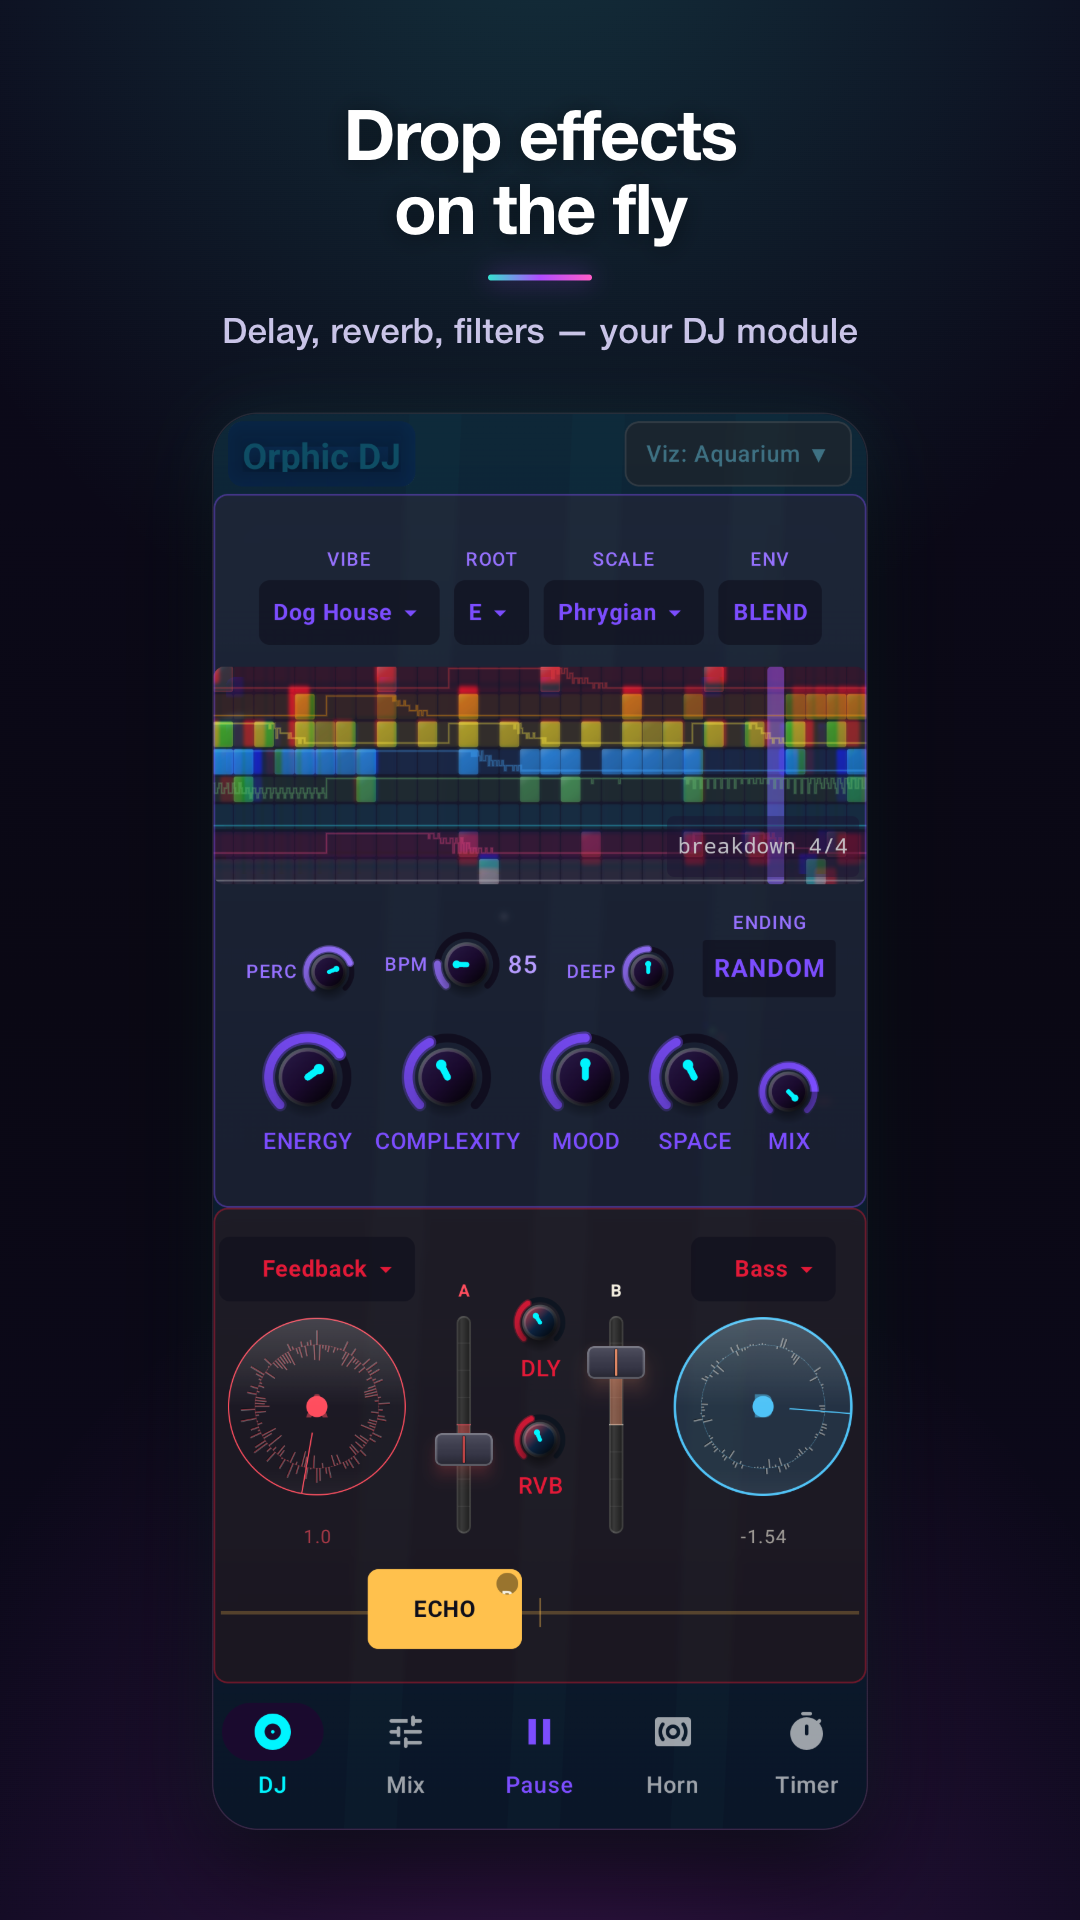
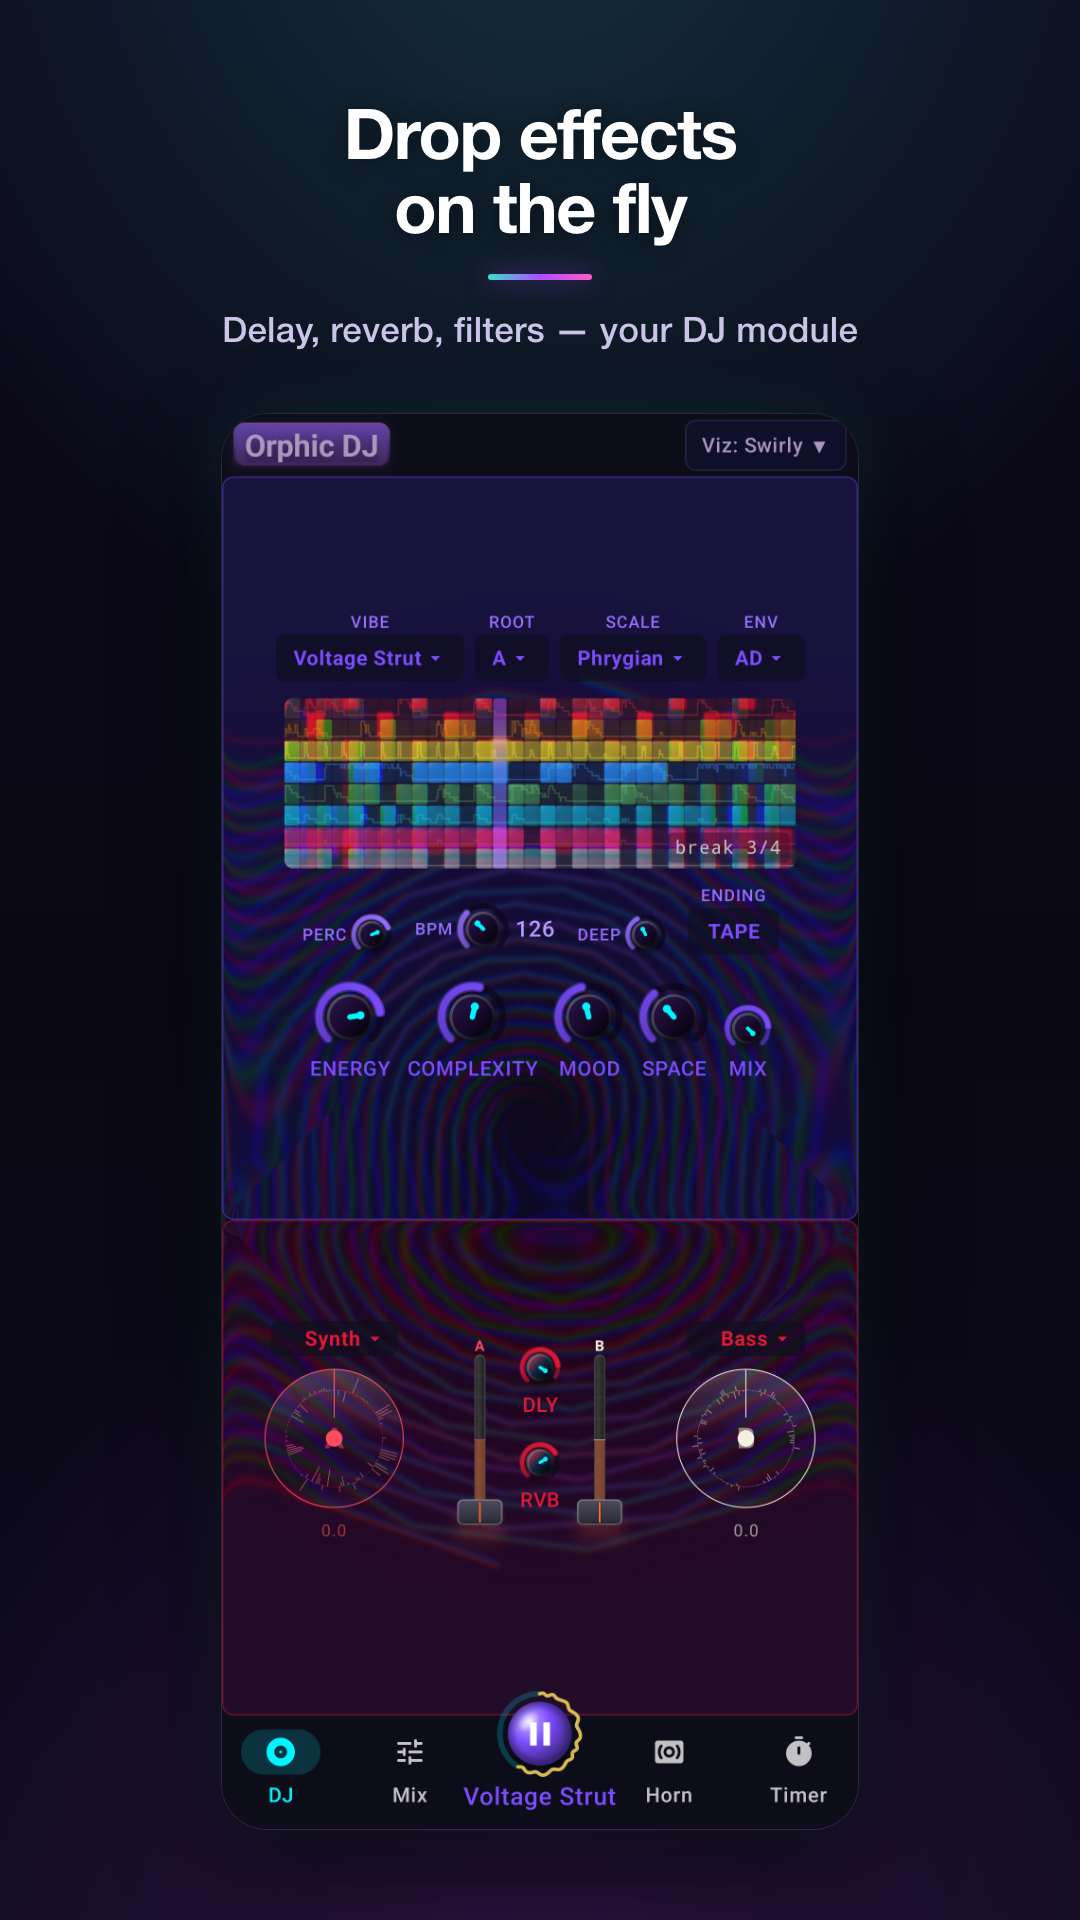
feat(store): new-UI screenshots for every Play and App Store slot
Replaces the phone, Fold (7-inch), tablet, TV, iPhone 6.9" and iPad 13" screenshots with captures of the vibe-navigator UI, and the counts on the numbers card, feature graphic and both descriptions become 11+ vibes and 12+ visualizations. A mistyped caption-frame index now fails instead of reusing frame 0.

diff --git a/apps/djapp/store-listings/capture/framed/frame-large.html b/apps/djapp/store-listings/capture/framed/frame-large.html
@@ -112,34 +112,34 @@
     // Headlines and subheads are the phone frames' verbatim, from frame.html — the listing says
     // the same things about the same screens whatever the device, so a large-screen shot is not
     // pitching the app differently from the phone one beside it.
+    // Index map: 0-3 Fold (Play 7-inch, 2560x1600), 4-7 Android tablet (Play 10-inch, 2560x1600),
+    // 8 phone landscape (Play phone slot, 1920x1080), 9-12 iPad 13" landscape (2752x2064).
+    // Neighbouring shots use different vibes and visualizations so no pair reads as one screen twice.
+    const KNOBS = { headline: "Four knobs.\nYou conduct.", subhead: "Energy · Complexity · Mood · Space" };
+    const VIBES = { headline: "Pick your vibe,\nendless variations", subhead: "From upbeat grooves to deep ambient drones" };
+    const MIX = { headline: "Ride the mix, live", subhead: "Balance every track in real time" };
+    const FX = { headline: "Drop effects\non the fly", subhead: "Delay, reverb, filters — your DJ module" };
+    const TIMER = { headline: "Drift off with\nthe sleep timer", subhead: "For bedtime, focus blocks, or a long drive" };
     const FRAMES = [
-      // 0-1: Android tablet (2560x1600).
-      {
-        img: "../screenshots/large-01-dock.png",
-        headline: "Four knobs.\nYou conduct.",
-        subhead: "Energy · Complexity · Mood · Space",
-      },
-      {
-        img: "../screenshots/large-02-catalog.png",
-        headline: "Pick your vibe,\nendless variations",
-        subhead: "From upbeat grooves to deep ambient drones",
-      },
-      // 2-3: iPad 13" landscape (2752x2064). Deliberately a different vibe and visualization
-      // from each other, so the pair does not read as one screen shot twice.
-      {
-        img: "../screenshots/ipad-01-dock.png",
-        headline: "Four knobs.\nYou conduct.",
-        subhead: "Energy · Complexity · Mood · Space",
-      },
-      {
-        img: "../screenshots/ipad-02-mix.png",
-        headline: "Ride the mix, live",
-        subhead: "Balance every track in real time",
-      },
+      { img: "../screenshots/new/fold-01.png", ...KNOBS },
+      { img: "../screenshots/new/fold-02.png", ...MIX },
+      { img: "../screenshots/new/fold-03.png", ...FX },
+      { img: "../screenshots/new/fold-04.png", ...VIBES },
+      { img: "../screenshots/new/tablet-01.png", ...KNOBS },
+      { img: "../screenshots/new/tablet-02.png", ...VIBES },
+      { img: "../screenshots/new/tablet-03.png", ...MIX },
+      { img: "../screenshots/new/tablet-04.png", ...TIMER },
+      { img: "../screenshots/new/phone-07-land.png", ...MIX },
+      { img: "../../app-store/raw/ipad-01.png", ...KNOBS },
+      { img: "../../app-store/raw/ipad-02.png", ...VIBES },
+      { img: "../../app-store/raw/ipad-03.png", ...MIX },
+      { img: "../../app-store/raw/ipad-04.png", ...TIMER },
     ];
 
     const idx = Math.max(0, parseInt((location.hash || "#0").slice(1), 10) || 0);
-    const f = FRAMES[idx] || FRAMES[0];
+    // A bad index must fail loudly: falling back to frame 0 shipped the wrong caption silently.
+    const f = FRAMES[idx];
+    if (!f) throw new Error(`no frame #${idx}`);
     document.getElementById("headline").textContent = f.headline;
     document.getElementById("subhead").textContent = f.subhead;
     document.getElementById("shot").src = f.img;

diff --git a/apps/djapp/store-listings/capture/framed/frame.html b/apps/djapp/store-listings/capture/framed/frame.html
@@ -108,27 +108,27 @@
     // Each entry produces one 1080x1920 Play Store frame.
     const FRAMES = [
       {
-        img: "../screenshots/01-hero.png",
+        img: "../screenshots/new/phone-02.png",
         headline: "Four knobs.\nYou conduct.",
         subhead: "Energy · Complexity · Mood · Space",
       },
       {
-        img: "../screenshots/03-vibe-picker.png",
+        img: "../screenshots/new/phone-03.png",
         headline: "Pick your vibe,\nendless variations",
         subhead: "From upbeat grooves to deep ambient drones",
       },
       {
-        img: "../screenshots/02-active-mix.png",
+        img: "../screenshots/new/phone-04.png",
         headline: "Ride the mix, live",
         subhead: "Balance every track in real time",
       },
       {
-        img: "../screenshots/07-extra.png",
+        img: "../screenshots/new/phone-05.png",
         headline: "Drop effects\non the fly",
         subhead: "Delay, reverb, filters — your DJ module",
       },
       {
-        img: "../screenshots/04-timer.png",
+        img: "../screenshots/new/phone-06.png",
         headline: "Drift off with\nthe sleep timer",
         subhead: "For bedtime, focus blocks, or a long drive",
       },
@@ -156,7 +156,9 @@
     ];
 
     const idx = Math.max(0, parseInt((location.hash || "#0").slice(1), 10) || 0);
-    const f = FRAMES[idx] || FRAMES[0];
+    // A bad index must fail loudly: falling back to frame 0 shipped the wrong caption silently.
+    const f = FRAMES[idx];
+    if (!f) throw new Error(`no frame #${idx}`);
     document.getElementById("headline").textContent = f.headline;
     document.getElementById("subhead").textContent = f.subhead;
     const shot = document.getElementById("shot");

diff --git a/apps/djapp/store-listings/capture/framed/feature-graphic.html b/apps/djapp/store-listings/capture/framed/feature-graphic.html
@@ -71,9 +71,9 @@
       <rect x="46" y="128" width="118" height="7" rx="3" fill="url(#accentH)"/>
       <text x="48" y="171" font-size="21" font-weight="600" letter-spacing="4" fill="#C9C4E8">AN INTERACTIVE ALBUM</text>
 
-      <text x="600" y="95" font-size="44" font-weight="800" text-anchor="end" fill="url(#accentV)">11</text>
+      <text x="600" y="95" font-size="44" font-weight="800" text-anchor="end" fill="url(#accentV)">12+</text>
       <text x="624" y="95" font-size="25" font-weight="600" fill="#F4F1FE">Visualizations</text>
-      <text x="600" y="147" font-size="44" font-weight="800" text-anchor="end" fill="url(#accentV)">11</text>
+      <text x="600" y="147" font-size="44" font-weight="800" text-anchor="end" fill="url(#accentV)">11+</text>
       <text x="624" y="147" font-size="25" font-weight="600" fill="#F4F1FE">Original Vibes</text>
       <text x="600" y="199" font-size="44" font-weight="800" text-anchor="end" fill="url(#accentV)">8</text>
       <text x="624" y="199" font-size="25" font-weight="600" fill="#F4F1FE">Generative Tracks</text>

diff --git a/apps/djapp/store-listings/capture/framed/hero-card.html b/apps/djapp/store-listings/capture/framed/hero-card.html
@@ -93,8 +93,8 @@
     <!-- By the numbers (two-column: right-aligned counts | left-aligned labels) -->
     <g font-family="-apple-system, 'Helvetica Neue', Arial, sans-serif">
       <g font-size="66" font-weight="800" text-anchor="end" fill="url(#accentV)">
-        <text x="395" y="965">11</text>
-        <text x="395" y="1072">9</text>
+        <text x="395" y="965">12+</text>
+        <text x="395" y="1072">11+</text>
         <text x="395" y="1179">8</text>
         <text x="395" y="1286">5</text>
         <text x="395" y="1393">4</text>

diff --git a/apps/djapp/store-listings/app-store/README.md b/apps/djapp/store-listings/app-store/README.md
@@ -1,6 +1,6 @@
 # App Store listing copy (Orphic DJ, iOS)
 
-Mirrors `../androidApp/src/main/play/listings/en-US/` for the Apple side. **Nothing consumes
+Mirrors `../../androidApp/src/main/play/listings/en-US/` for the Apple side. **Nothing consumes
 these files** — the iOS pipeline (`xcodebuild` → `altool`) only reaches TestFlight, and App Store
 metadata is set through App Store Connect. They exist so the copy is diffable in review instead of
 living solely in a web form, which is how a broken sentence shipped in 2.0.5.
@@ -30,4 +30,7 @@ GET   /v1/appStoreVersions/{vid}/appStoreVersionLocalizations
 PATCH /v1/appStoreVersionLocalizations/{lid}   # description, promotionalText, keywords, whatsNew
 ```
 
-`app-store/` holds copy only. Screenshots live in `../play-store/assets/appstore/`.
+`en-US/` holds the copy; `iphone-69/` (1320x2868) and `ipad-13/` (2752x2064) hold the screenshot
+sets, uploaded through the ASC API. They're produced by the tooling in `../capture/`. `raw/` holds the
+unframed iPad captures that `../capture/framed/frame-large.html` (#9-12) frames into `ipad-13/`; the
+iPhone set ships unframed, so its raws are the set itself.
